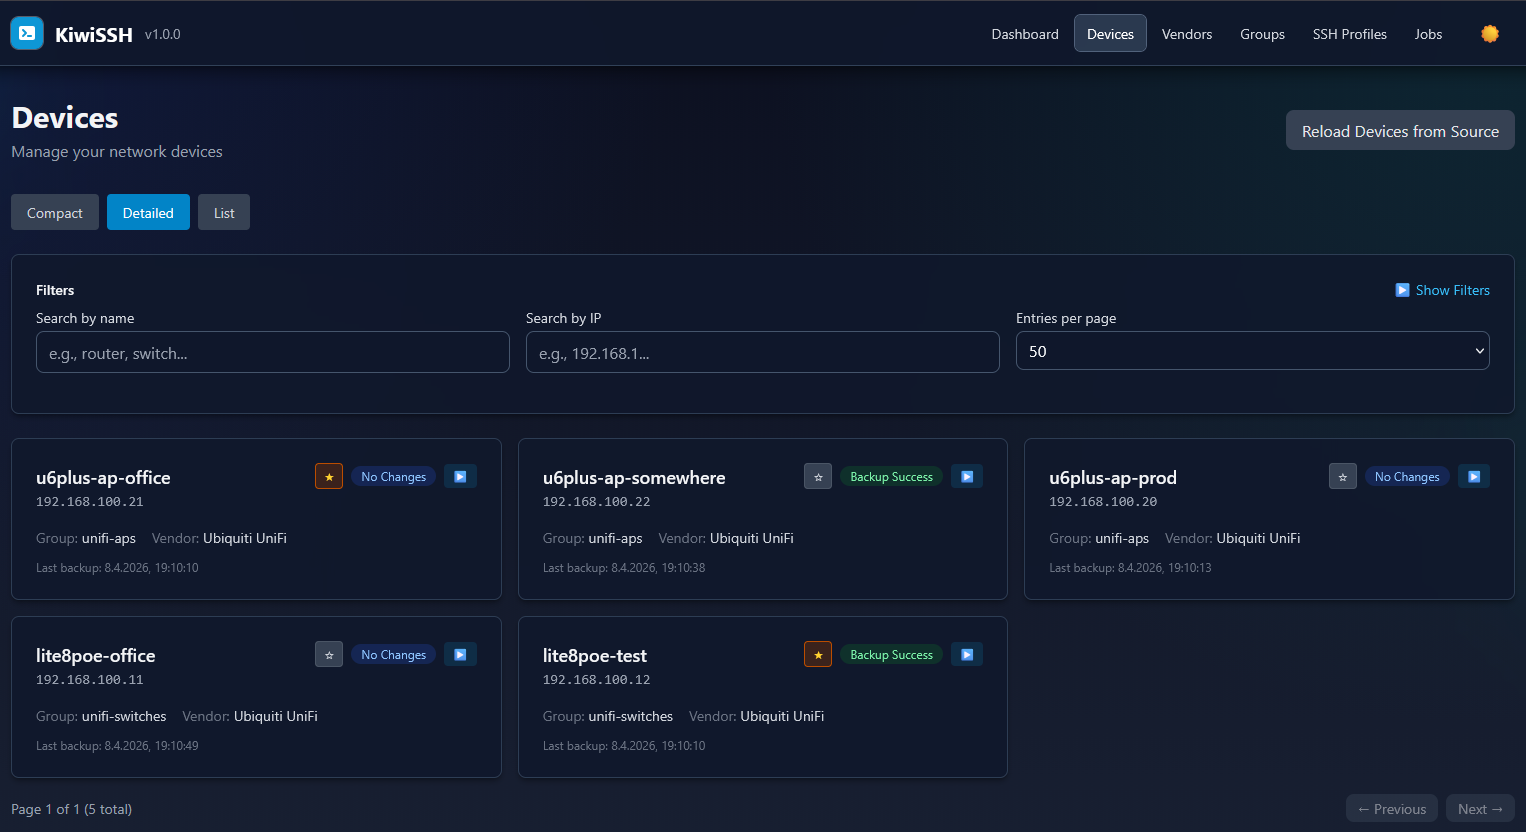
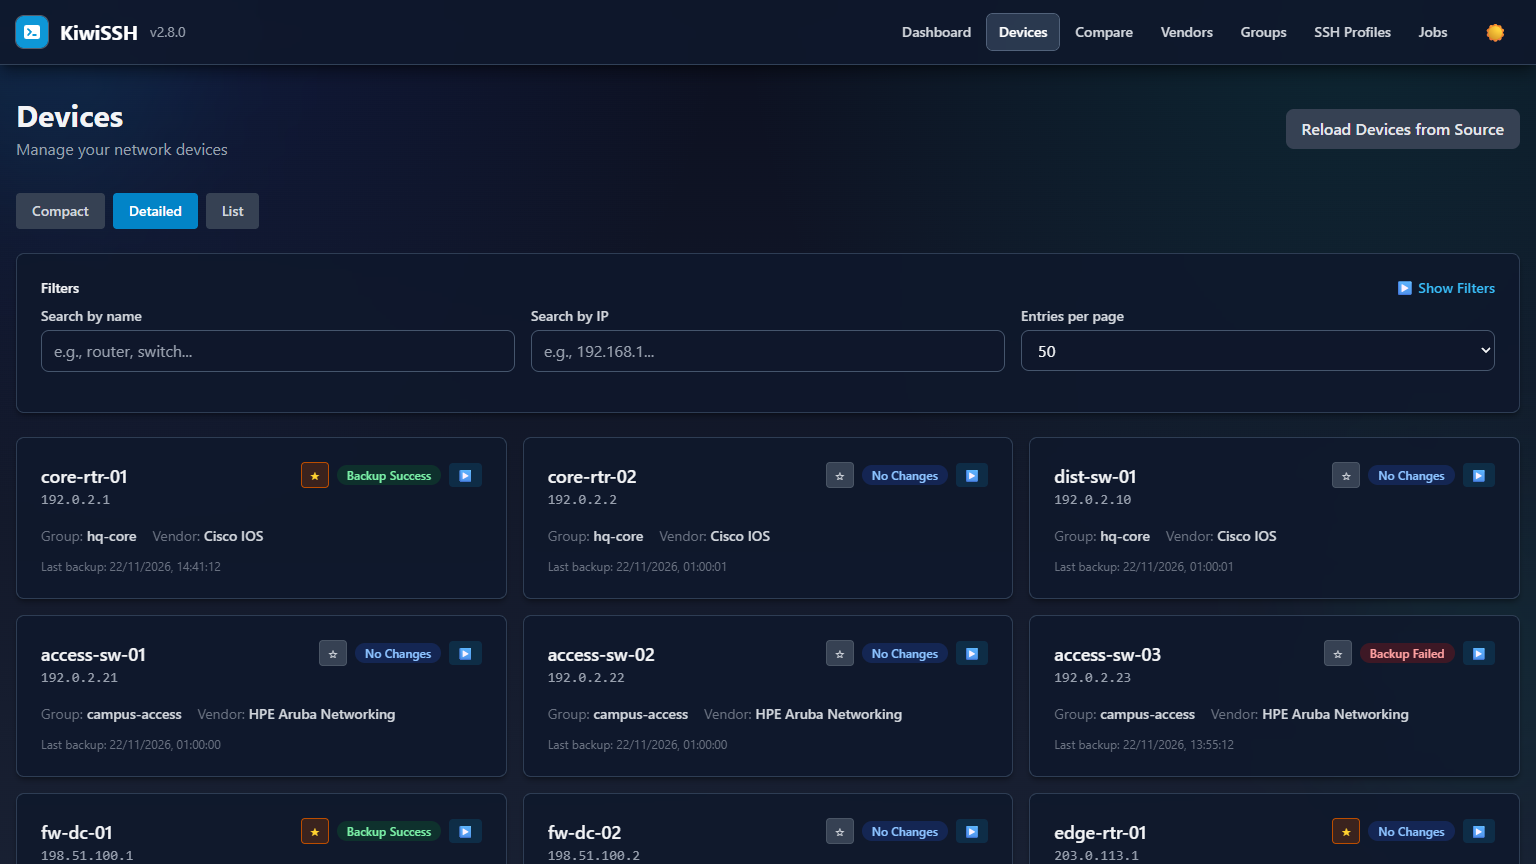
doc: update screenshots to match v2.8.0

diff --git a/README.md b/README.md
@@ -91,11 +91,15 @@ For a detailed overview of supported OS/Device types, please refer to the [OS_TY
 # Screenshots
 
 > [!NOTE]
-> Screenshots as of version v1.0.0
+> Screenshots as of version v2.8.0
 
 ![Dashboard](/readme_images/dashboard.png)
 
 ![Device List](/readme_images/devices.png)
+
+![Device Details](/readme_images/device_detail.png)
+
+![Compare Configs](/readme_images/compare.png)
 
 ![Vendors](/readme_images/vendors.png)
 
